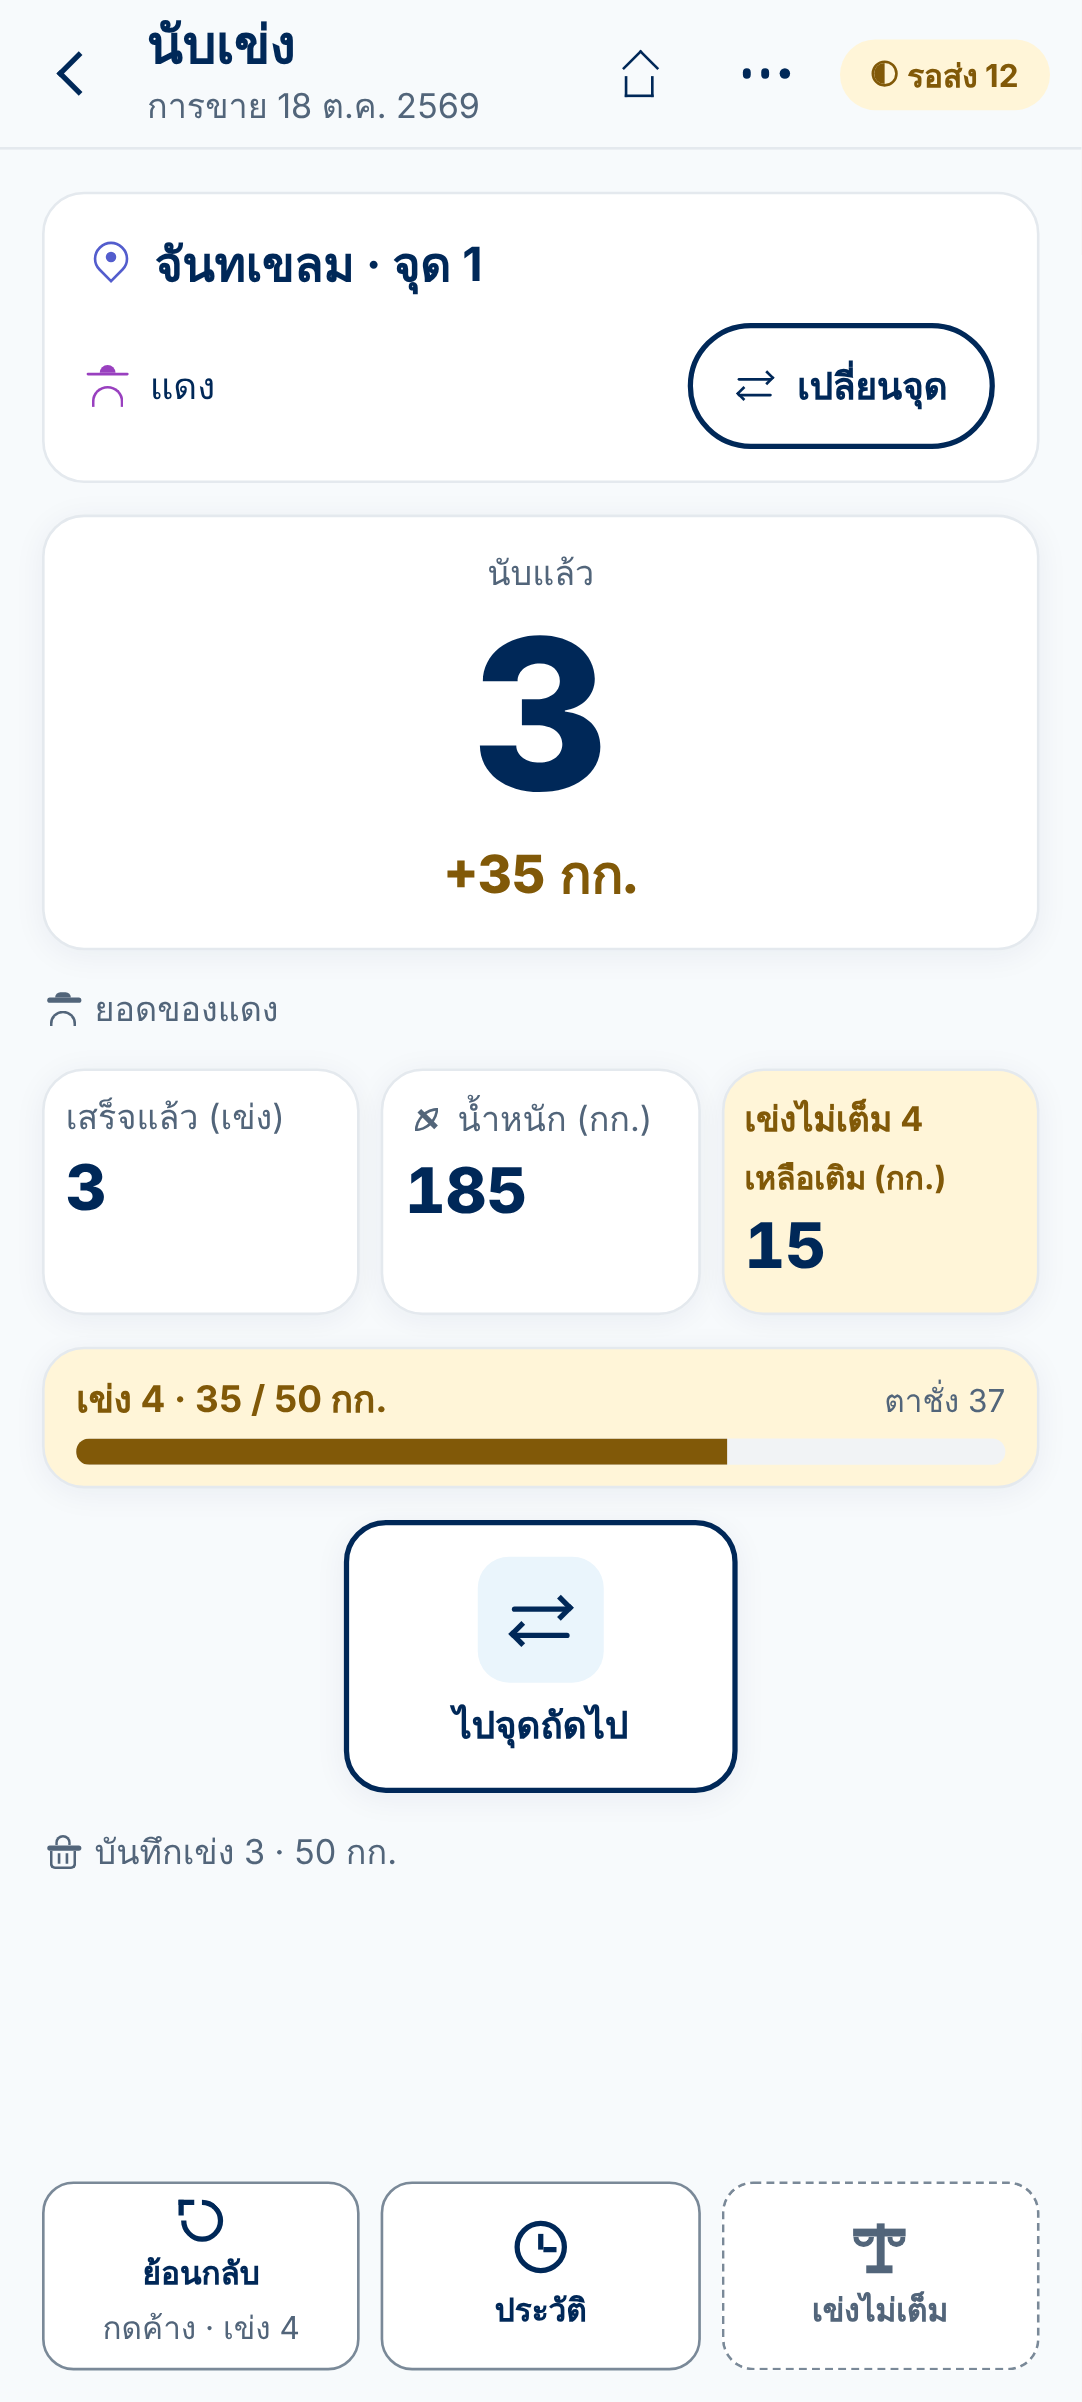
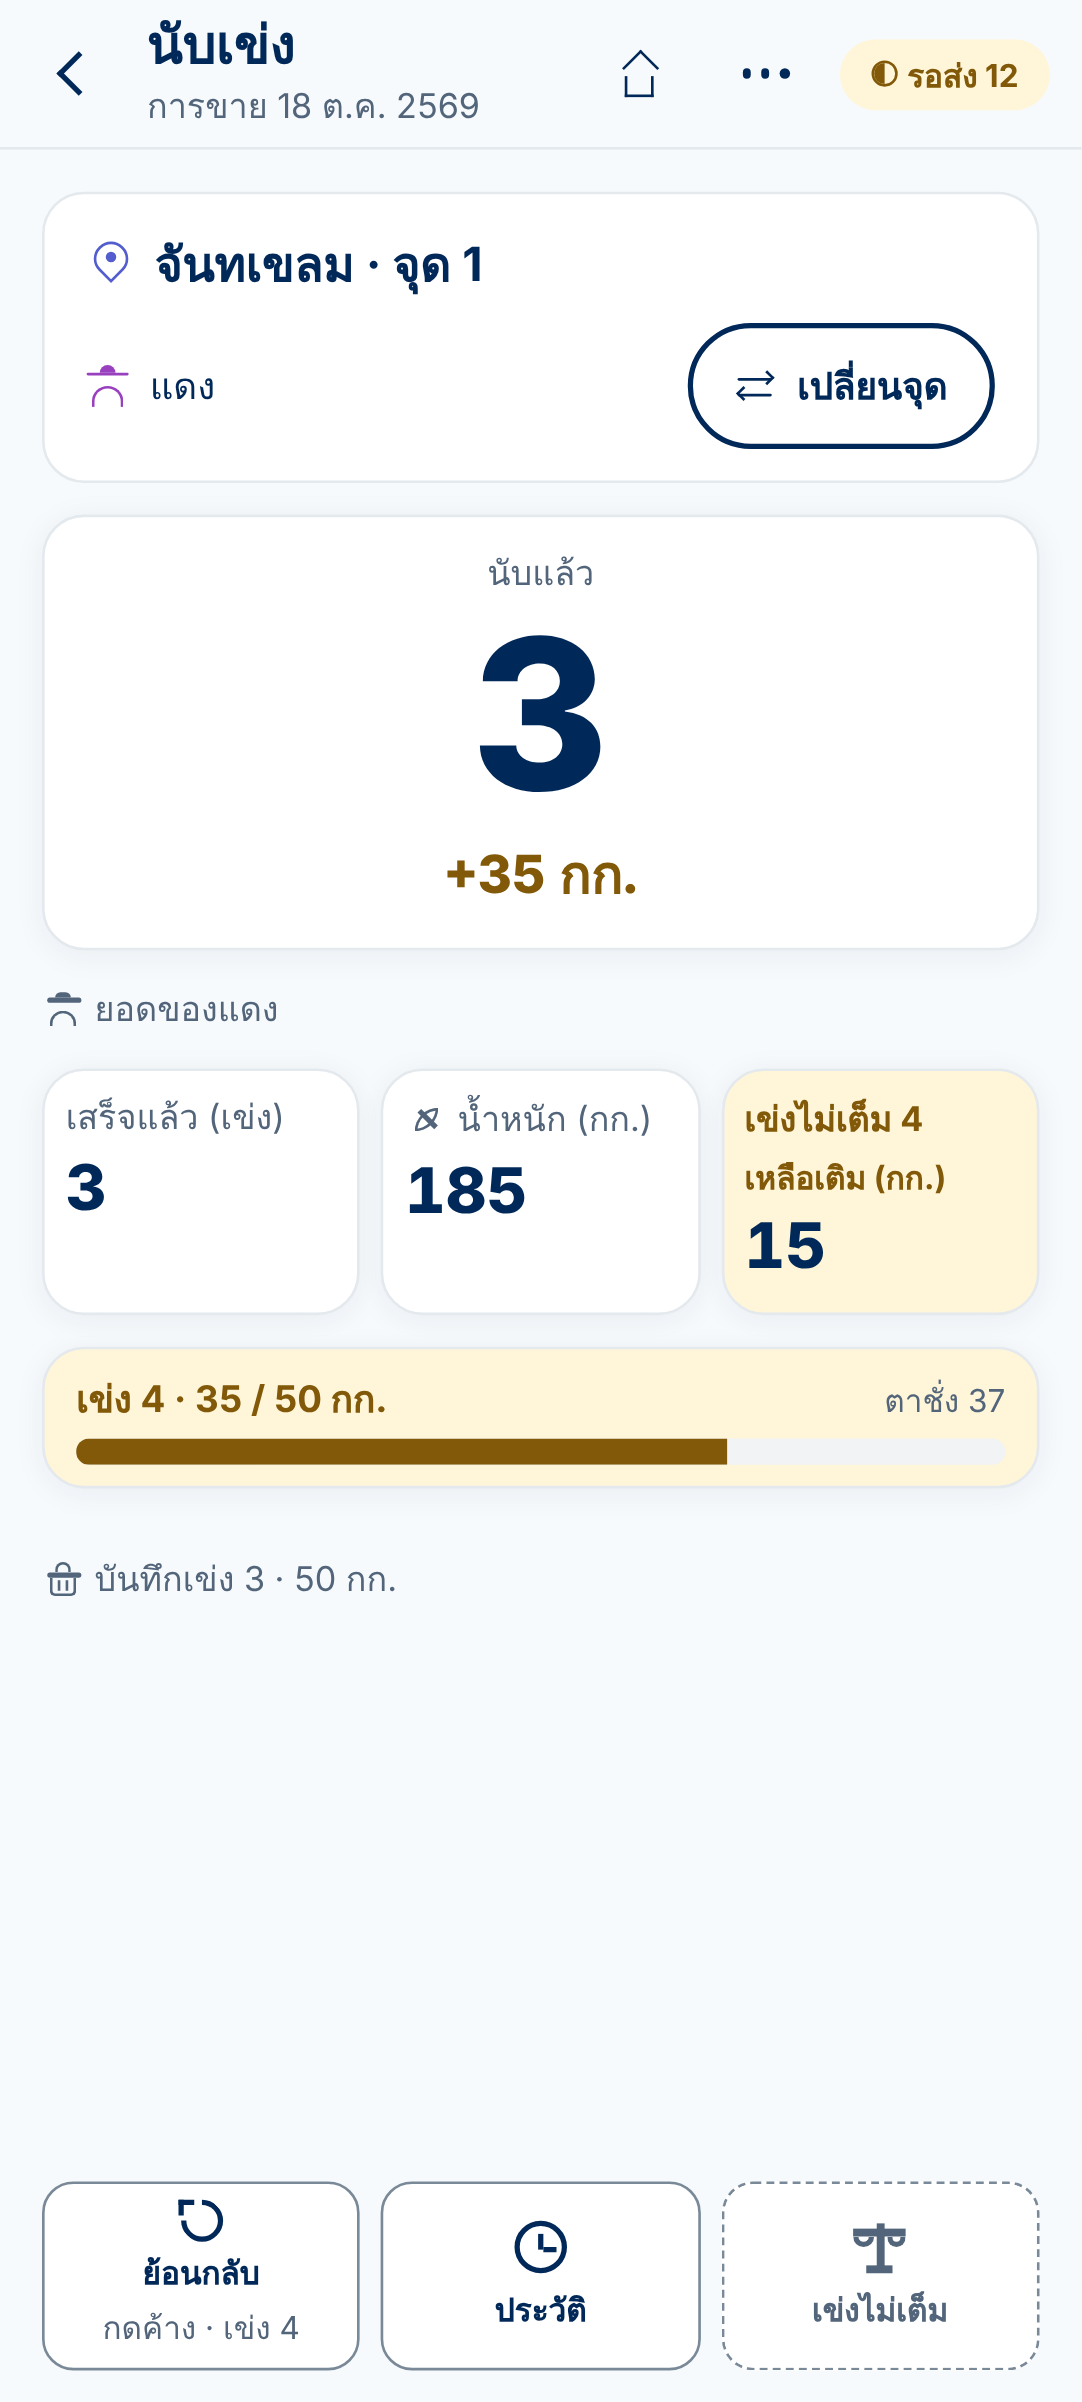
feat(sale): drop next-point, full-width summary CTA
Owner decision 2026-10-18: the switch-point button at the top already does the job, so the next-point tile is removed. At the last point the review button becomes a full-width call-to-action with a chart icon (not a check mark, so it does not read as done). Records the change in S17 and S18.

Claude-Session: https://claude.ai/code/session_01R8aSV9THc1CZhcUszVKdn2

diff --git a/src/__tests__/v2-sale-weigh.test.tsx b/src/__tests__/v2-sale-weigh.test.tsx
@@ -240,9 +240,9 @@ describe('v2 counter (pages 8, 10, 11, 12, 13)', () => {
     expect(screen.getByTestId('current-short')).toHaveTextContent('+35 กก.');
     expect(screen.queryByTestId('current-no')).toBeNull();
     expect(screen.getByTestId('fig-missing')).toHaveTextContent(/^15/);
-    // The point is finished (owner 2026-10-17): no finish button, no hold, no hint — one button to the next point.
+    // The point is finished (owner 2026-10-17): no finish button, no hold, no hint. The switch-point button is the one at the top (owner 2026-10-18: no second button here).
     expect(screen.queryByText(/รอเติม/)).toBeNull();
-    expect(screen.getByTestId('next-point')).toBeTruthy();
+    expect(screen.queryByTestId('next-point')).toBeNull();
     expect(screen.queryByTestId('close-open')).toBeNull();
     expect(screen.queryByTestId('hold')).toBeNull();
     // The only way on is undo: the short basket goes, the number comes back.
@@ -253,18 +253,19 @@ describe('v2 counter (pages 8, 10, 11, 12, 13)', () => {
     expect(screen.getByTestId('fig-done')).toHaveTextContent(/^2/);
   });
 
-  it('the last point offers the summary beside the next-point button; another point left means no summary (E04-S17)', async () => {
+  it('another point left: no summary button and no next-point button, the switch-point button does the job (E04-S18)', async () => {
     await started();
     await readyAt(farm.a[0]);
     await counterAt(farm.a[0]);
     await press('tool-short');
     await press('short-save');
     expect(screen.queryByTestId('to-summary')).toBeNull();
-    await press('next-point');
+    expect(screen.queryByTestId('next-point')).toBeNull();
+    await press('switch-point');
     expect(router.push).toHaveBeenLastCalledWith(expect.stringContaining('/point?mode=switch'));
   });
 
-  it('at the last point the summary button joins the next-point button (E04-S17)', async () => {
+  it('at the last point one full-width summary button goes to the review; there is no next-point button (E04-S18)', async () => {
     await started();
     for (const id of [...farm.a.slice(1), farm.b1]) {
       await readyAt(id);
@@ -276,6 +277,8 @@ describe('v2 counter (pages 8, 10, 11, 12, 13)', () => {
     await counterAt(farm.a[0]);
     await press('tool-short');
     await press('short-save');
+    expect(screen.queryByTestId('next-point')).toBeNull();
+    expect(screen.getByTestId('to-summary')).toHaveTextContent('ชั่งครบแล้ว → ตรวจยอด');
     await press('to-summary');
     expect(router.push).toHaveBeenLastCalledWith(`/v2/sale/${saleId}/check`);
   });

diff --git a/src/v2/sale/counter-screen.tsx b/src/v2/sale/counter-screen.tsx
@@ -28,7 +28,6 @@ import { peopleStore } from '../../store/people';
 import { readWeighBasis, readWeighMode, writeWeighBasis, type WeighBasis, type WeighMode } from '../../store/weigh-mode-preference';
 import { useTheme } from '../../theme';
 import {
-  ActionTile,
   AlertIcon,
   AppText,
   BasketIcon,
@@ -49,7 +48,6 @@ import {
   PinIcon,
   Plus,
   ScaleIcon,
-  SwapIcon,
   TapperIcon,
   TextField,
   Undo,
@@ -564,14 +562,11 @@ export function CounterScreen({ initialSheet = 'none' }: { initialSheet?: Sheet 
           </Button>
         </View>
       ) : waiting && open ? (
-        <View testID="stage-wait" style={{ flexDirection: 'row', justifyContent: 'center', gap: t.space.md }}>
-          <View style={{ width: 150 }}>
-            <ActionTile testID="next-point" label={msg('rec.nextPoint')} icon={(c) => <SwapIcon color={c} size={26} />} main={!lastPoint} onPress={() => router.push(`${base}/point?mode=switch&farm=${farm.id}${tapper ? `&tapper=${tapper}` : ''}` as Href)} />
-          </View>
+        <View testID="stage-wait" style={{ alignSelf: 'stretch' }}>
           {lastPoint ? (
-            <View style={{ width: 150 }}>
-              <ActionTile testID="to-summary" label={msg('rec.finish')} icon={(c) => <ChartIcon color={c} size={26} />} main onPress={() => router.push(`${base}/check` as Href)} />
-            </View>
+            <CTA testID="to-summary" icon={(c) => <ChartIcon color={c} size={20} />} onPress={() => router.push(`${base}/check` as Href)}>
+              {msg('rec.finish')}
+            </CTA>
           ) : null}
         </View>
       ) : (

diff --git a/e2e/v2-sale.spec.ts b/e2e/v2-sale.spec.ts
@@ -411,7 +411,7 @@ test('back to a point already weighed: straight to its counter, the count goes o
   await expect(id('current-no')).toHaveText(/เข่งถัดไป 5$/);
 });
 
-test('last point: the next-point tile and the review tile side by side (E04-S17)', async ({ page }) => {
+test('last point: one full-width review button, no next-point tile (E04-S18)', async ({ page }) => {
   const id = on(page);
   await seedMaster(page, FARM);
   const b = new LogBuilder('sale-last');
@@ -431,7 +431,9 @@ test('last point: the next-point tile and the review tile side by side (E04-S17)
   await seedEvents(page, b.build().map((e) => ({ ...e, ts: now })));
   await page.goto('/v2/sale/sale-last/counter?point=a1');
   await expect(id('open-card')).toContainText('เข่ง 3 · 22 / 50 กก.');
-  await expect(id('next-point')).toBeVisible();
+  await expect(id('next-point')).toHaveCount(0);
   await expect(id('to-summary')).toContainText('ชั่งครบแล้ว → ตรวจยอด');
+  const wide = await id('to-summary').boundingBox();
+  expect(wide!.width).toBeGreaterThan(300);
   await shot(page, '11b-last-point');
 });

diff --git a/src/i18n/messages.ts b/src/i18n/messages.ts
@@ -710,7 +710,6 @@ const th = {
   'rec.shortKg': '+{kg} กก.',
   'rec.openBar': 'เข่ง {n} · {have} / {full} กก.',
   'rec.scaleSmall': 'ตาชั่ง {reading}',
-  'rec.nextPoint': 'ไปจุดถัดไป',
   'rec.waitFill': 'เข่ง {n} รอเติม',
   'rec.totalsOf': 'ยอดของ{name}',
   'rec.totalsOfPoint': 'ยอดของจุดนี้',
@@ -2437,7 +2436,6 @@ const en: Partial<Record<keyof typeof th, string>> = {
   'rec.shortKg': '+{kg} kg',
   'rec.openBar': 'basket {n} · {have} / {full} kg',
   'rec.scaleSmall': 'scale {reading}',
-  'rec.nextPoint': 'next point',
   'rec.waitFill': 'basket {n} waits to be filled',
   'rec.totalsOf': "{name}'s totals",
   'rec.totalsOfPoint': "this point's totals",

diff --git a/docs/stories/e04-s18-counter-cards-menu-nav.md b/docs/stories/e04-s18-counter-cards-menu-nav.md
@@ -16,7 +16,11 @@ Status: Review
 2. **ข้อ 12 เมนู ⋮ แบ่งกลุ่ม สี ไอคอน** (ตามร่างที่เจ้าของเห็น): ปิดการขาย (เขียว ใหญ่สุด: "ชั่งครบแล้ว → ตรวจยอด") · บันทึก (บันทึกย้อนหลัง, โหมดสาธารณะ) · ราคาและข้อมูล (ปรับราคารับซื้อ แสดงราคาปัจจุบัน, ข้อมูลการขาย) · ไปที่ (หน้าแรก, บัญชีหนี้, การขายทั้งหมด) · เส้นกั้น + "ลบการขายนี้" สีแดงล่างสุด (ยังมีหน้ายืนยันเดิม) ทุกแถวสูง ≥ 48 px มีข้อความกำกับ ใช้ร่วมกับเมนูหน้าเลือกจุด (กลุ่มที่ไม่เกี่ยวไม่แสดง)
 3. **ข้อ 14 ไปหน้าแรก/หนี้ได้ง่าย** (เจ้าของเลือก "ทั้งสองแบบ" 2026-10-18): (ก) ปุ่มไอคอนบ้านบนแถบบนของหน้านับ ไปหน้าแรก (ข) ในเมนู กลุ่ม "ไปที่" เพิ่ม **หน้าแรก 1 แถว และ บัญชีหนี้ 1 แถว แยกกัน** (ไม่รวมกัน)
 
+4. **ปุ่มบนการ์ดเข่งรอเติม (เจ้าของ 2026-10-18, ตัดสินใจ):** **ลบปุ่ม "ไปจุดถัดไป" (`next-point`) ออก** เพราะมีปุ่ม "เปลี่ยนจุด" ด้านบนอยู่แล้ว (แก้ข้อ 3 ของ E04-S17); ถ้าชั่งครบทุกจุดแล้ว ยังมีปุ่ม "ชั่งครบแล้ว → ตรวจยอด" แต่ออกแบบใหม่เป็น **ปุ่ม Call-to-Action เต็มความกว้าง** (`CTA` ไอคอนกราฟ ไม่ใช้เครื่องหมายถูก เพื่อไม่ให้เข้าใจว่า "ทำแล้ว") ไปหน้าตรวจยอดเดียวกัน
+
 ## Acceptance criteria
+
+- [x] เข่งรอเติม: ไม่มีปุ่ม `next-point`; จุดสุดท้าย: มีปุ่ม `to-summary` เต็มความกว้าง (CTA) ไปหน้าตรวจยอด; ยังมีจุดอื่นที่ไม่ได้ชั่ง: ไม่มีปุ่มใดในพื้นที่นี้ (ใช้ "เปลี่ยนจุด" ด้านบน)
 
 - [x] การ์ดเล็ก 3 ใบ (`card-first`, `card-kg`, `card-short`) สูงเท่ากันเสมอ ไม่ว่ามีเข่งไม่เต็มหรือตัวเลขยาว; ตัวเลขใน `fig-*` ใช้ 1 บรรทัด หดพอดี
 - [x] หน่วย (฿ / กก. / เข่ง) อยู่ในบรรทัดป้ายด้านบน (เจ้าของ 2026-10-18); ป้ายกลางเหลือ "น้ำหนัก (กก.)" (ตัดคำว่า "สะสม" เพื่อไม่ให้ป้ายยาวเกินการ์ด; ไอคอนใบไม้คงไว้ตามกฎไอคอนของเจ้าของ); ความสูงการ์ดคูณตามขนาดฟอนต์ของเครื่อง; ตัวเลขในการ์ดเป็นตัวเลขล้วน ลดขนาดตามความยาว (`figSize`) ไม่ตัดด้วย … (`adjustsFontSizeToFit` ไม่ทำงานบนเว็บ)

diff --git a/docs/stories/e04-s17-basket-counting-ux.md b/docs/stories/e04-s17-basket-counting-ux.md
@@ -23,6 +23,8 @@ Status: In Progress
 1. การ์ดใหญ่: เลข "นับแล้ว" คงเดิม; บรรทัดเล็กใต้เลขเปลี่ยนจาก "เข่งถัดไป N" เป็น **+xx กก.** (น้ำหนักยางของเข่งไม่เต็ม เช่น +22 กก. — เจ้าของยืนยัน) และเน้นสีเตือนให้เห็นชัด
 2. การ์ดเข่งที่เปิดอยู่: บรรทัดเดียวอ่านง่าย เป็น **แถบน้ำหนัก** แสดงยางที่มีกี่ % ของน้ำหนักเต็มเข่ง (เช่น 22 จาก 50 กก. = 44%) ความสูงพอดี สีจาก design system; "ตาชั่งอ่านเท่าไหร่" กำกับเล็กๆ ไม่รก
 3. พื้นที่ "เข่ง N รอเติม" + ข้อความคำใบ้ **ตัดออก** แทนด้วย **ปุ่มสี่เหลี่ยม (ActionTile) อยู่กลาง** "ไปจุดถัดไป" พร้อมไอคอน ไม่มีคำอธิบายอื่น (ผู้ใช้กดย้อนกลับเองเมื่อรู้ว่าเติมไม่ได้)
+> **แก้โดย E04-S18 (เจ้าของ 2026-10-18):** ข้อ 3 ปุ่ม "ไปจุดถัดไป" (`next-point`) **ถูกลบ** เพราะมีปุ่ม "เปลี่ยนจุด" ด้านบนอยู่แล้ว; ข้อ 4 ปุ่มตรวจยอดเปลี่ยนเป็นปุ่มเต็มความกว้าง (ดู S18)
+
 4. ถ้านี่คือจุดชั่งสุดท้าย (จุดอื่นที่มองเห็นทั้งหมดชั่งแล้ว) เพิ่มปุ่มสี่เหลี่ยมอีกอัน **เด่นกว่า** (`main`) ใช้คำเดียวกับเมนู ("ชั่งครบแล้ว → ตรวจยอด" เจ้าของยืนยัน 2026-10-18) ไปหน้าตรวจยอดเดียวกัน
 
 ## Acceptance criteria
